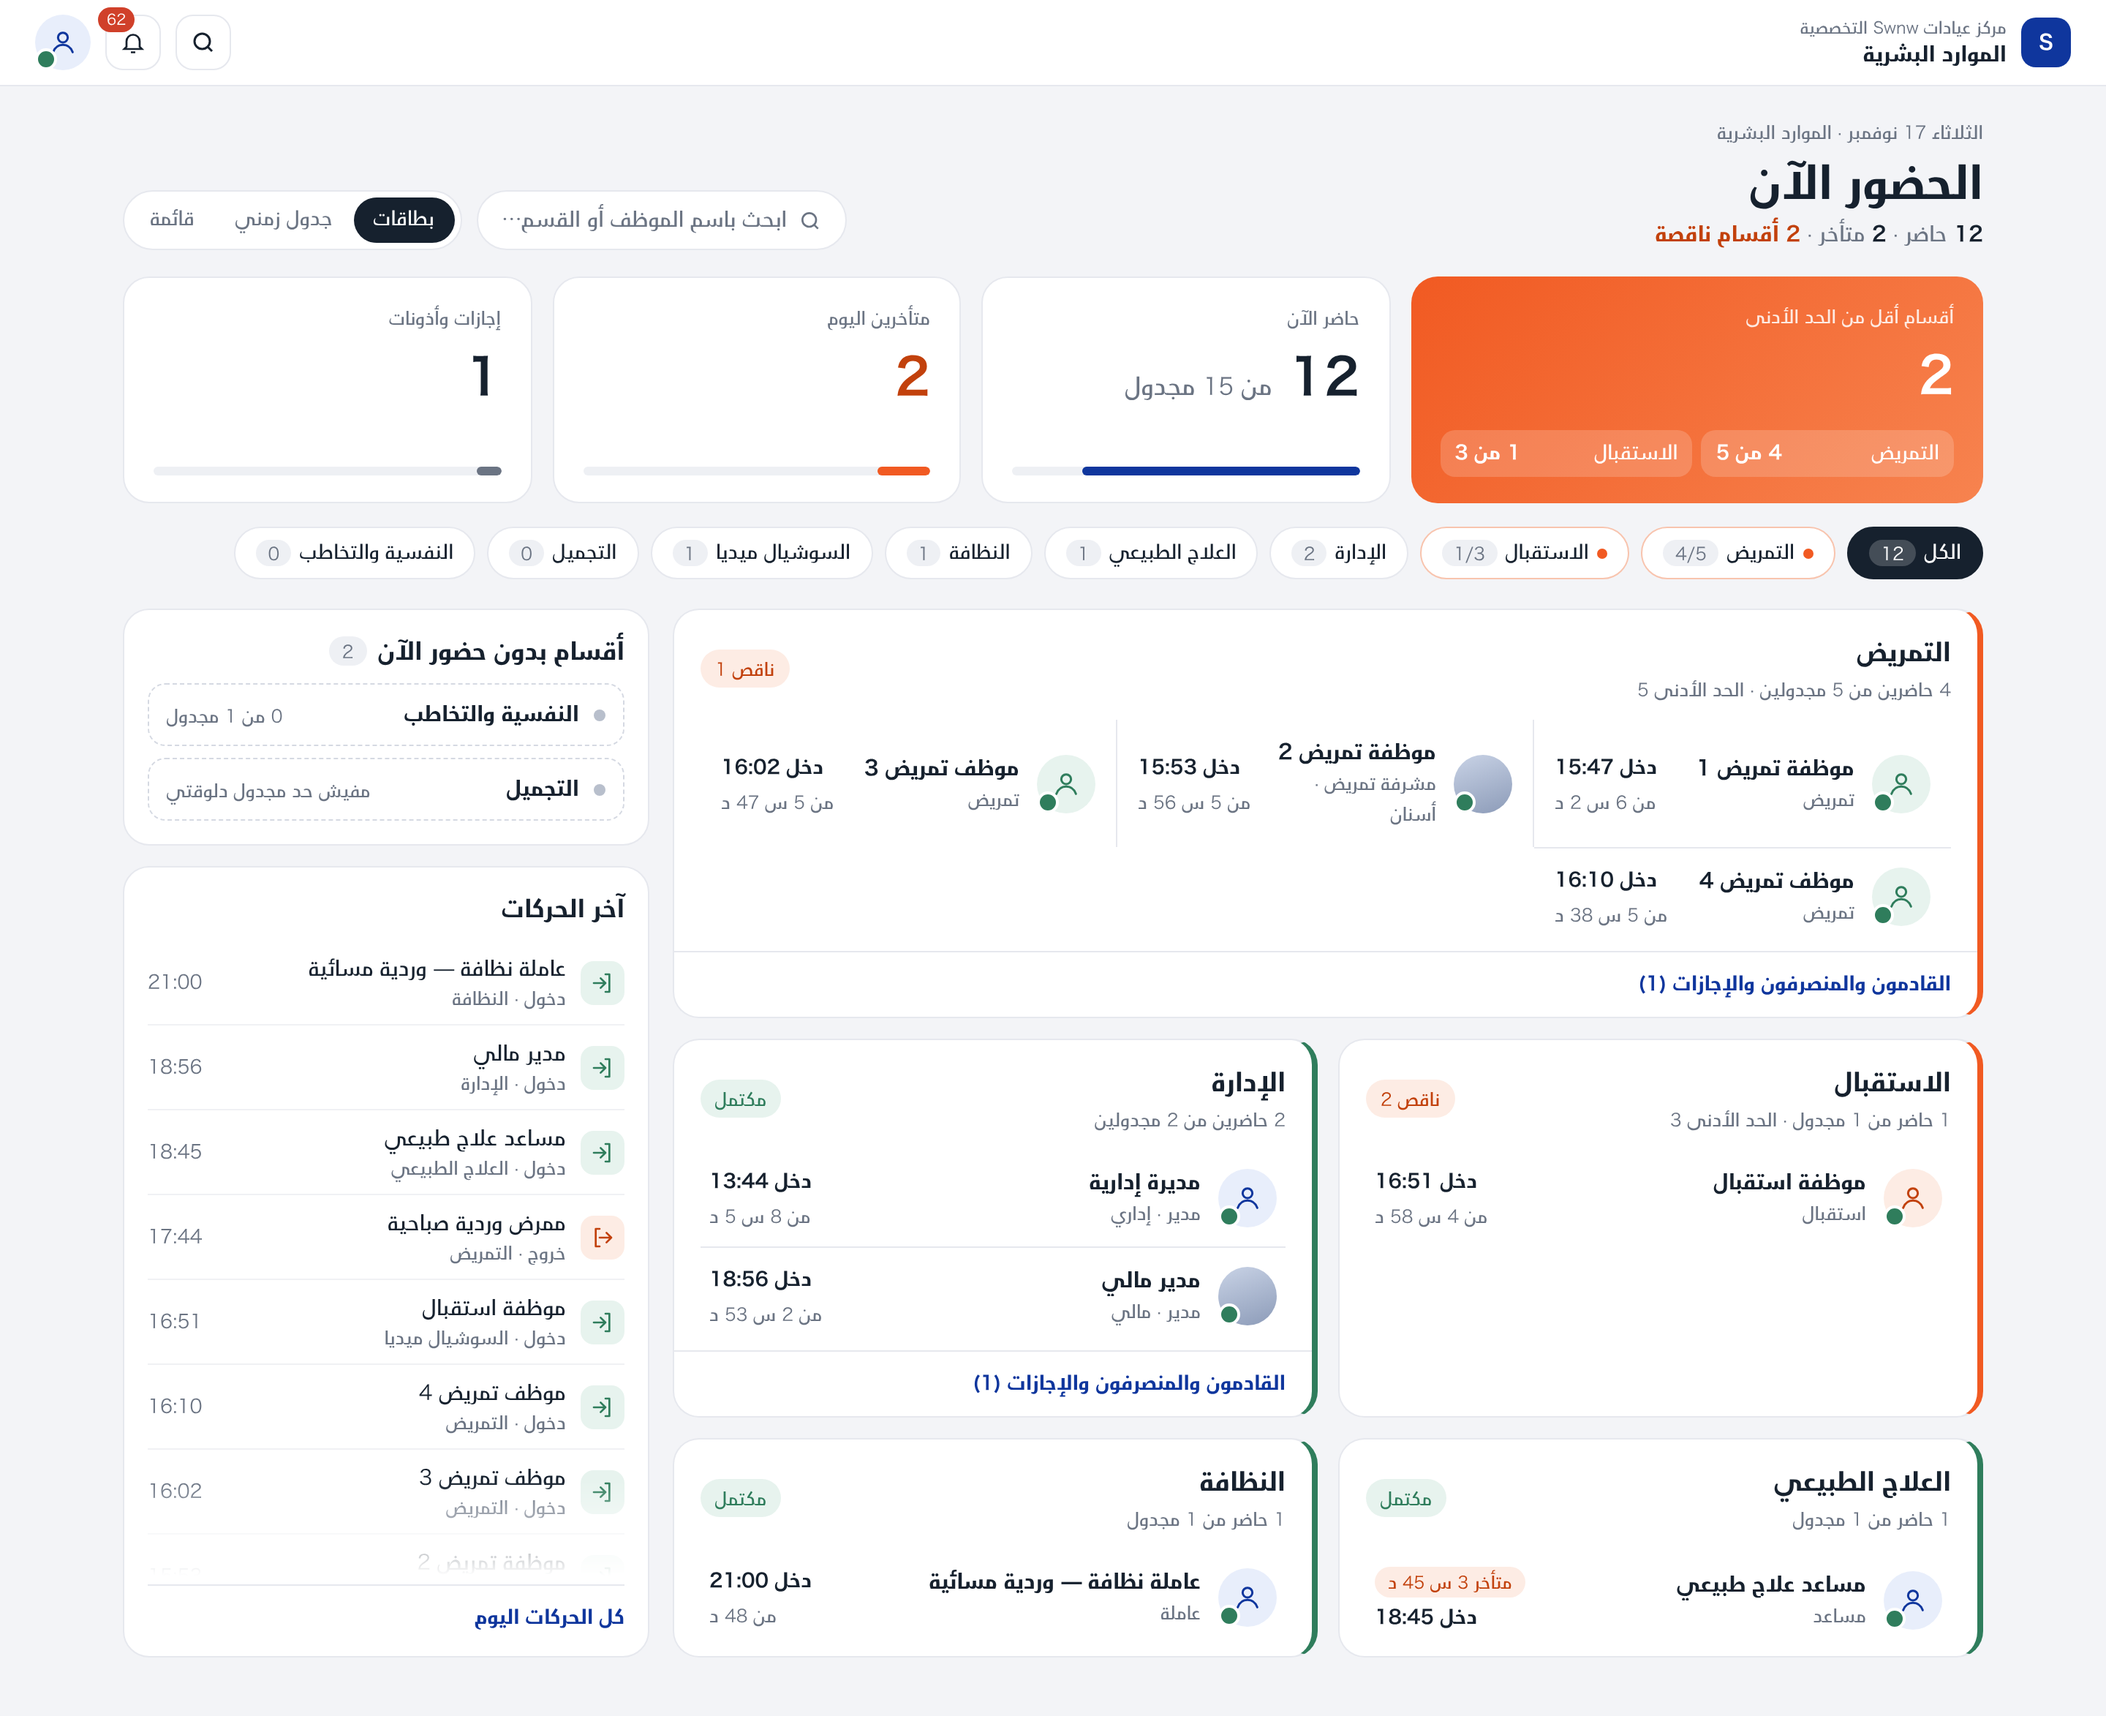
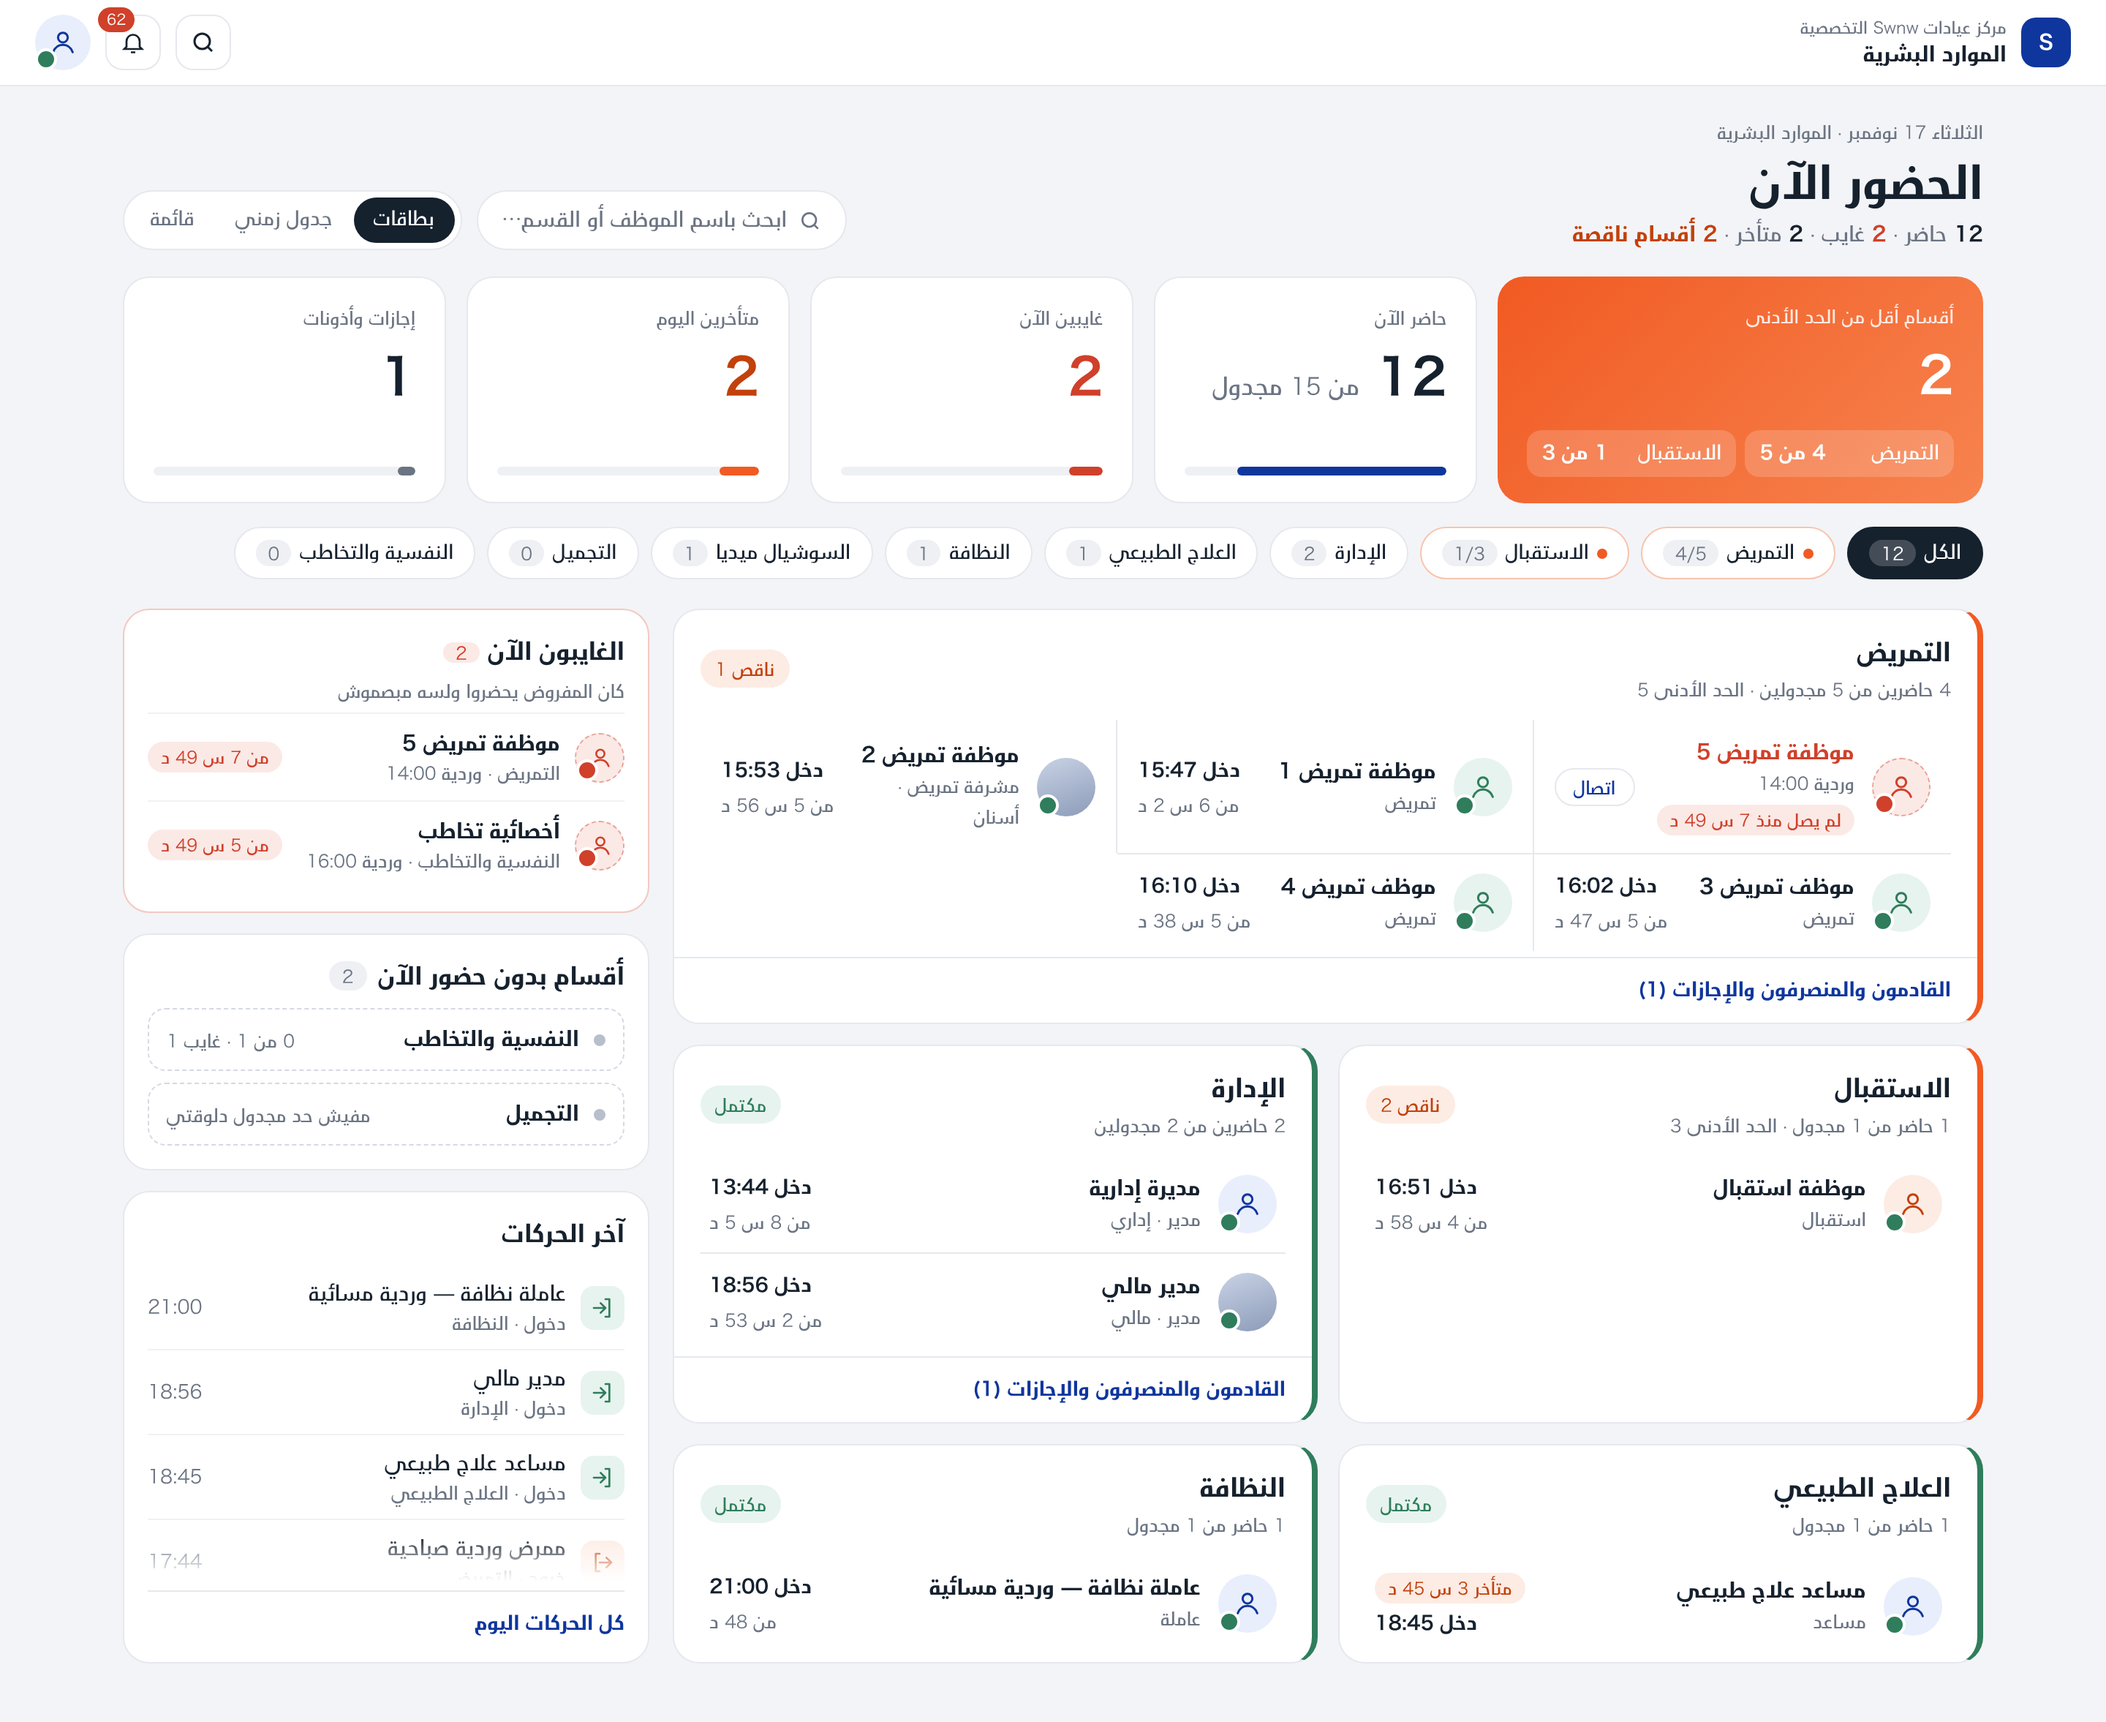
docs: HR presence mockup — absentees (KPI, side panel, in-card rows)
Claude-Session: https://claude.ai/code/session_01UqVZHZihapbfrPRQkyZErA

diff --git a/docs/ui-references/mockups/hr-presence.html b/docs/ui-references/mockups/hr-presence.html
@@ -39,7 +39,7 @@ main{max-width:1320px;margin:0 auto;padding:22px 24px 40px}
 .search{background:#fff;border:1px solid var(--line);border-radius:999px;padding:9px 16px;color:var(--muted);min-width:220px;display:flex;gap:8px;align-items:center}
 .search svg{width:16px;height:16px;stroke:var(--muted)}
 /* KPI */
-.kpis{display:grid;grid-template-columns:1.4fr 1fr 1fr 1fr;gap:14px;margin-bottom:16px}
+.kpis{display:grid;grid-template-columns:1.5fr 1fr 1fr 1fr 1fr;gap:14px;margin-bottom:16px}
 .k{background:var(--card);border:1px solid var(--line);border-radius:var(--r);padding:18px 20px;transition:transform .18s ease,box-shadow .18s ease}
 .k:hover,.dept:hover{transform:translateY(-4px);box-shadow:0 10px 24px rgba(22,33,46,.07)}
 .k small{color:var(--muted);font-size:12px}
@@ -133,7 +133,7 @@ main{max-width:1320px;margin:0 auto;padding:22px 24px 40px}
   .search{min-width:0;width:100%}
   .tools{width:100%;flex-direction:column;align-items:stretch}
   .seg{justify-content:space-between;align-self:stretch;height:auto}.tools .seg{flex:none}.seg span{flex:1;text-align:center}
-  .kpis{grid-template-columns:repeat(3,1fr);gap:10px}
+  .kpis{grid-template-columns:repeat(2,1fr);gap:10px}
   .k{padding:12px}.k .n{font-size:26px}.k .n em{display:block;font-size:12px}
   .k:not(.hero) small{font-size:11px}
   .user .hide-m{display:none}
@@ -158,6 +158,18 @@ main{max-width:1320px;margin:0 auto;padding:22px 24px 40px}
   .dept.wide .row{border-inline-start:0!important;border-top:0;padding-inline:6px}
   .dept.wide .row+.row{border-top:1px solid var(--line)}
 }
+
+/* absentees */
+.row.abs .av{background:#FBE9E6;border:1.5px dashed #E8A396}.row.abs .av svg{stroke:var(--neg)}.row.abs .av::after{background:var(--neg)}
+.row.abs .nm .t{color:var(--neg)}
+.pill.gone{background:#FBE9E6;color:var(--neg);white-space:nowrap}
+.call{border:1px solid var(--line);background:#fff;border-radius:999px;padding:3px 12px;font:inherit;font-size:12px;color:var(--blue);cursor:pointer}
+.absent{border-color:#F3C9C1;background:linear-gradient(#fff,#fff) padding-box}
+.cnt.red{background:#FBE9E6;color:var(--neg)}
+.hint{margin:-4px 0 6px;color:var(--muted);font-size:12px}
+.ab{display:flex;align-items:center;gap:10px;padding:10px 0;border-top:1px solid #F0F1F4}
+.ab .av{width:34px;height:34px;background:#FBE9E6;border:1.5px dashed #E8A396}.ab .av svg{stroke:var(--neg);width:17px}.ab .av::after{background:var(--neg)}
+.ab .tx{flex:1;min-width:0}.ab .tx small{display:block;color:var(--muted);font-size:12px}
 </style>
 </head>
 <body>
@@ -183,7 +195,7 @@ main{max-width:1320px;margin:0 auto;padding:22px 24px 40px}
     <div>
       <div class="crumb">الثلاثاء 17 نوفمبر · الموارد البشرية</div>
       <h1>الحضور الآن</h1>
-      <p><b>12</b> حاضر · <b>2</b> متأخر · <b style="color:#C2410C">2 أقسام ناقصة</b></p>
+      <p><b>12</b> حاضر · <b style="color:var(--neg)">2</b> غايب · <b>2</b> متأخر · <b style="color:#C2410C">2 أقسام ناقصة</b></p>
     </div>
     <div class="tools">
       <div class="search"><svg><use href="#search"/></svg>ابحث باسم الموظف أو القسم…</div>
@@ -198,6 +210,7 @@ main{max-width:1320px;margin:0 auto;padding:22px 24px 40px}
       <div class="list"><span>التمريض <b>4 من 5</b></span><span>الاستقبال <b>1 من 3</b></span></div>
     </div>
     <div class="k"><small>حاضر الآن</small><div class="n">12 <em>من 15 مجدول</em></div><div class="bar"><i></i></div></div>
+    <div class="k"><small>غايبين الآن</small><div class="n" style="color:var(--neg)">2</div><div class="bar"><i style="width:13%;background:var(--neg)"></i></div></div>
     <div class="k"><small>متأخرين اليوم</small><div class="n" style="color:#C2410C">2</div><div class="bar"><i style="width:15%;background:var(--orange)"></i></div></div>
     <div class="k"><small>إجازات وأذونات</small><div class="n">1</div><div class="bar"><i style="width:7%;background:var(--muted)"></i></div></div>
   </section>
@@ -220,6 +233,7 @@ main{max-width:1320px;margin:0 auto;padding:22px 24px 40px}
         <article class="dept wide short">
           <div class="dh"><div><b>التمريض</b><small>4 حاضرين من 5 مجدولين · الحد الأدنى 5</small></div><span class="st bad">ناقص 1</span></div>
           <ul class="rows">
+            <li class="row abs"><span class="av"><svg><use href="#person"/></svg></span><div class="nm"><span class="t">موظفة تمريض 5</span><small>وردية 14:00</small><span class="pill gone" style="display:inline-block;margin-top:4px">لم يصل منذ 7 س 49 د</span></div><div class="meta"><button class="call">اتصال</button></div></li>
             <li class="row"><span class="av" style="--c:#E7F3EE;--cs:#2F7D5C"><svg><use href="#person"/></svg></span><div class="nm"><span class="t">موظفة تمريض 1</span><small>تمريض</small></div><div class="meta"><b>دخل 15:47</b><span>من 6 س 2 د</span></div></li>
             <li class="row"><span class="av photo"></span><div class="nm"><span class="t">موظفة تمريض 2</span><small>مشرفة تمريض · أسنان</small></div><div class="meta"><b>دخل 15:53</b><span>من 5 س 56 د</span></div></li>
             <li class="row"><span class="av" style="--c:#E7F3EE;--cs:#2F7D5C"><svg><use href="#person"/></svg></span><div class="nm"><span class="t">موظف تمريض 3</span><small>تمريض</small></div><div class="meta"><b>دخل 16:02</b><span>من 5 س 47 د</span></div></li>
@@ -261,9 +275,15 @@ main{max-width:1320px;margin:0 auto;padding:22px 24px 40px}
     </div>
 
     <aside class="side-col">
+      <section class="side absent">
+        <h3>الغايبون الآن <span class="cnt red">2</span></h3>
+        <p class="hint">كان المفروض يحضروا ولسه مبصموش</p>
+        <div class="ab"><span class="av"><svg><use href="#person"/></svg></span><div class="tx"><b>موظفة تمريض 5</b><small>التمريض · وردية 14:00</small></div><span class="pill gone">من 7 س 49 د</span></div>
+        <div class="ab"><span class="av"><svg><use href="#person"/></svg></span><div class="tx"><b>أخصائية تخاطب</b><small>النفسية والتخاطب · وردية 16:00</small></div><span class="pill gone">من 5 س 49 د</span></div>
+      </section>
       <section class="side noatt">
         <h3>أقسام بدون حضور الآن <span class="cnt">2</span></h3>
-        <div class="na"><span class="dotg"></span><b>النفسية والتخاطب</b><small>0 من 1 مجدول</small></div>
+        <div class="na"><span class="dotg"></span><b>النفسية والتخاطب</b><small>0 من 1 · غايب 1</small></div>
         <div class="na"><span class="dotg"></span><b>التجميل</b><small>مفيش حد مجدول دلوقتي</small></div>
       </section>
       <section class="side moves">
